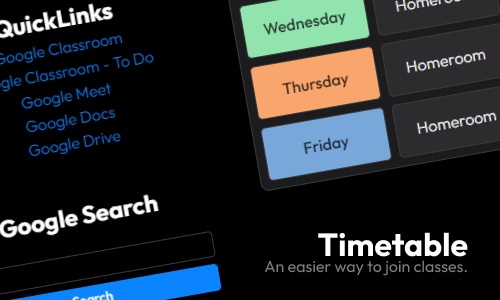
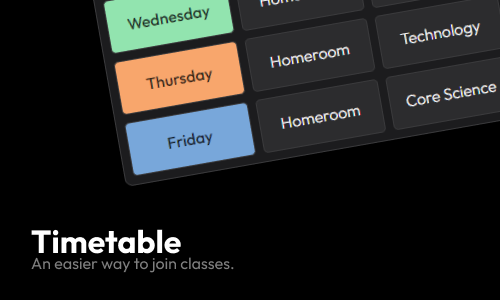
Timetable v3.1.0

diff --git a/timetable/assets/css/global.css b/timetable/assets/css/global.css
@@ -78,6 +78,38 @@
     color-scheme: dark;
 }
 
+@media (prefers-color-scheme: dark) {
+    :root {
+        --background-html: rgb(0, 0, 0);
+        --background-body: transparent;
+    
+        --color-main-text: rgb(255, 255, 255);
+        --color-alt-text: rgb(0, 0, 0);
+    
+        --color-red: rgb(255, 69, 58);
+        --color-orange: rgb(255, 159, 10);
+        --color-yellow: rgb(255, 214, 10);
+        --color-green: rgb(48, 209, 88);
+        --color-mint: rgb(102, 212, 207);
+        --color-teal: rgb(64, 200, 224);
+        --color-cyan: rgb(100, 210, 255);
+        --color-blue: rgb(10, 132, 255);
+        --color-indigo: rgb(94, 92, 230);
+        --color-purple: rgb(191, 90, 242);
+        --color-pink: rgb(255, 55, 95);
+        --color-brown: rgb(172, 142, 104);
+        
+        --color-gray-1: rgb(142, 142, 147);
+        --color-gray-2: rgb(99, 99, 102);
+        --color-gray-3: rgb(72, 72, 74);
+        --color-gray-4: rgb(58, 58, 60);
+        --color-gray-5: rgb(44, 44, 46);
+        --color-gray-6: rgb(28, 28, 30);
+    
+        color-scheme: dark;
+    }
+}
+
 ::selection {
     background: var(--color-selection);
 }

diff --git a/timetable/assets/components/html/changelog.html b/timetable/assets/components/html/changelog.html
@@ -1,4 +1,11 @@
 <div>
+    <p>Timetable v3.1.0</p>
+    <ul>
+        <li>Re-added the auto theme selector, if the user never switch theme after setting Timetable up.</li>
+        <li>New embed image.</li>
+    </ul>
+</div>
+<div>
     <p>Timetable v3.0.0</p>
     <ul>
         <li><b>Main</b></li>
